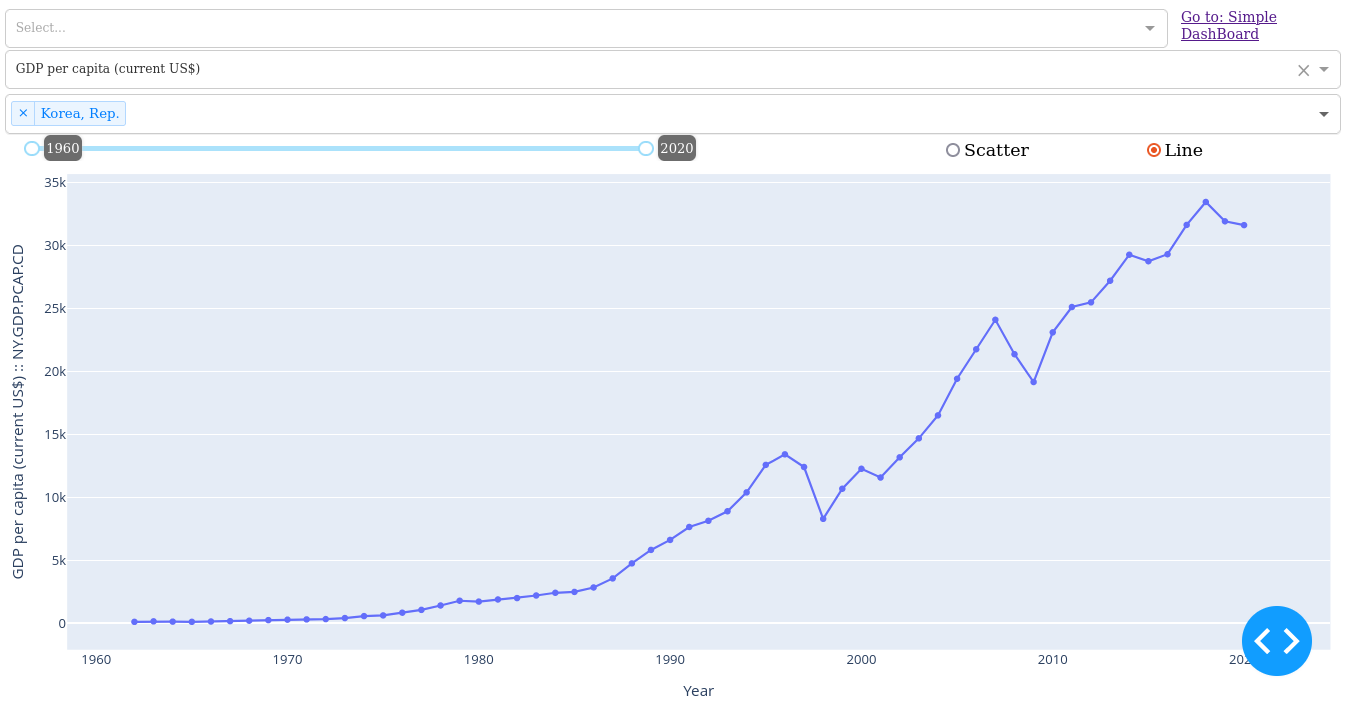
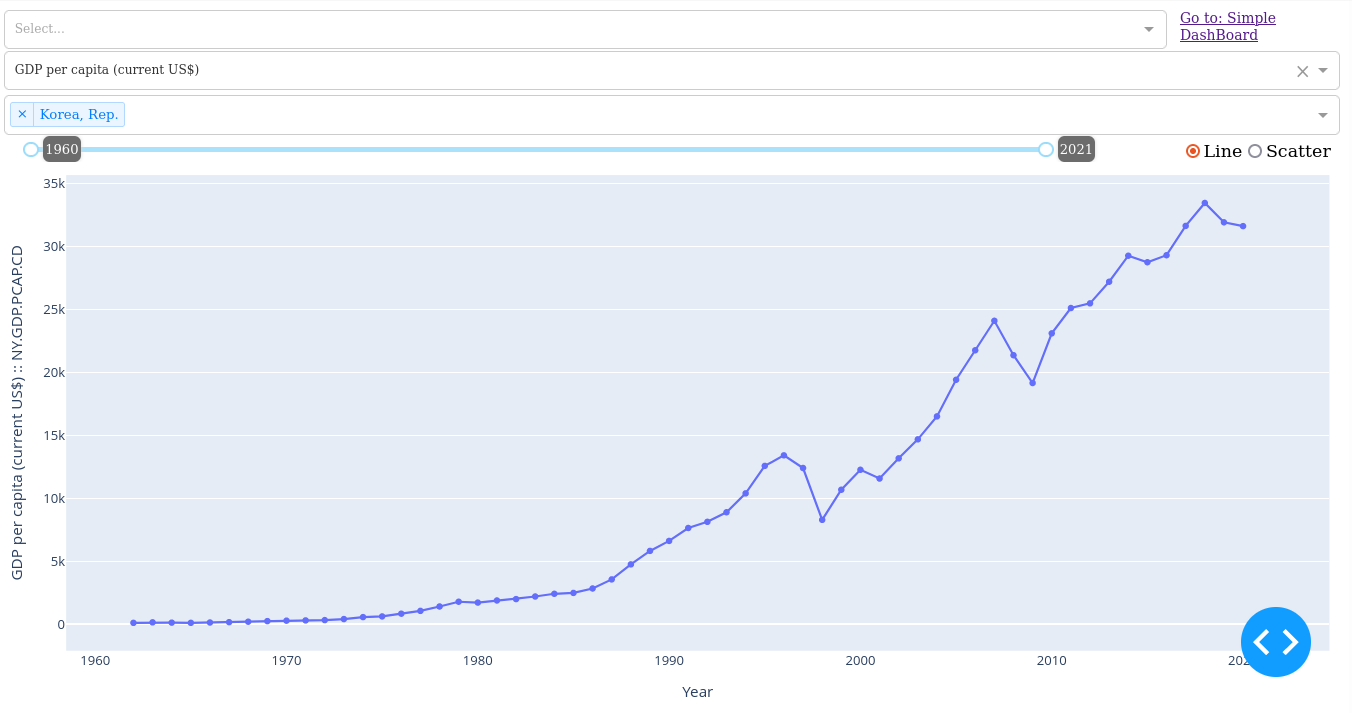
update README, add radioitems, new screenshots

diff --git a/appPages/simpleApp.py b/appPages/simpleApp.py
@@ -8,8 +8,12 @@ import plotly.express as px
 # wb.db = 2
 indicators = pd.DataFrame(wb.series.info().items)
 economies = pd.DataFrame(wb.economy.info().items)
+
 years = pd.DataFrame(wb.time.info().items)
 years["value"] = years["value"].astype("int")
+min_year = years["value"].min()
+max_year = years["value"].max()
+
 econ_dic = dict(economies.set_index("value")['id'])
 ind_dic = dict(indicators.set_index("value")["id"])
 
@@ -79,19 +83,30 @@ layout = html.Div([
     ),
     html.Br(),
     html.Div([
+        dcc.RadioItems(
+            id="y-axis-type-2",
+            options=["Linear", "Log"],
+            value="Linear",
+            labelStyle={
+               "display": "inline-block",
+               "marginTop": "0px",
+            },
+        ),
+    ], style={'width': '12%', 'float': 'right', 'display': 'inline-block'}),
+    html.Div([
         dcc.RangeSlider(
             id="year-slider-2",
-            min=years["value"].min(),
-            max=years["value"].max(),
+            min=min_year,
+            max=max_year,
             step=1,
             tooltip={"placement": "right", "always_visible": True},
             marks=None,
             dots=False,
             # marks={year: str(year)[2:4] for year in years["value"]},
             # value=years["value"].max(),
-            value=[1960, 2023]),
+            value=[min_year, max_year]),
     ],  style={
-        'width': '100%',
+        'width': '80%',
         'display': 'inline-block',
         # 'padding': '5px 0px 0px 0px',
         'font-size': '50%'
@@ -108,8 +123,9 @@ layout = html.Div([
     Input('year-slider-2', 'value'),
     Input('d-economies-2', 'value'),
     Input('d-indicators-2', 'value'),
+    Input('y-axis-type-2', 'value'),
 )
-def update_graph(year, d_economies, d_indicator):
+def update_graph(year, d_economies, d_indicator, y_axis_type):
     data = extract_data(year, d_economies, d_indicator)
     y_axis_title = return_key(ind_dic, d_indicator)
     fig = px.scatter(
@@ -122,7 +138,8 @@ def update_graph(year, d_economies, d_indicator):
     fig.update_traces(mode='lines+markers')
     fig.update_xaxes(showgrid=False)
     fig.update_yaxes(
-        title=f'{y_axis_title} ::\t{d_indicator}', type='linear')
+        title=f'{y_axis_title} ::\t{d_indicator}',
+        type='linear' if y_axis_type == 'Linear' else 'log')
     fig.update_layout(height=530,
                       margin={
                           'l': 20,

diff --git a/appPages/multiApp.py b/appPages/multiApp.py
@@ -8,8 +8,12 @@ import plotly.express as px
 # wb.db = 2
 indicators = pd.DataFrame(wb.series.info().items)
 economies = pd.DataFrame(wb.economy.info().items)
+
 years = pd.DataFrame(wb.time.info().items)
 years["value"] = years["value"].astype("int")
+min_year = years["value"].min()
+max_year = years["value"].max()
+
 econ_dic = dict(economies.set_index("value")["id"])
 ind_dic = dict(indicators.set_index("value")["id"])
 
@@ -101,29 +105,26 @@ layout = html.Div([
             id="plot-choice-7",
             options=['Line', 'Scatter'],
             labelStyle={
-                'width': '15%',
-                'float': 'right',
-                # "display": "inline-block",
-                # "marginTop": "0px",
-                'padding': '0px 0px 0px 0px',
+                "display": "inline-block",
+                "marginTop": "0px",
             },
         ),
-    ]),
+    ], style={'width': '12%', 'float': 'right', 'display': 'inline-block'}),
     html.Div([
         dcc.RangeSlider(
             id="year-slider-7",
-            min=years["value"].min(),
-            max=years["value"].max(),
+            min=min_year,
+            max=max_year,
             step=1,
             tooltip={"placement": "right", "always_visible": True},
             marks=None,
             dots=False,
             # marks={year: str(year)[2:4] for year in years["value"]},
             # value=years["value"].max(),
-            value=[1960, 2023])
+            value=[min_year, max_year])
     ],
         style={
-        "width": "50%",
+        "width": "80%",
             'float': 'left',
             "display": "inline-block",
         "padding": "2px 0px 0px 0px",
